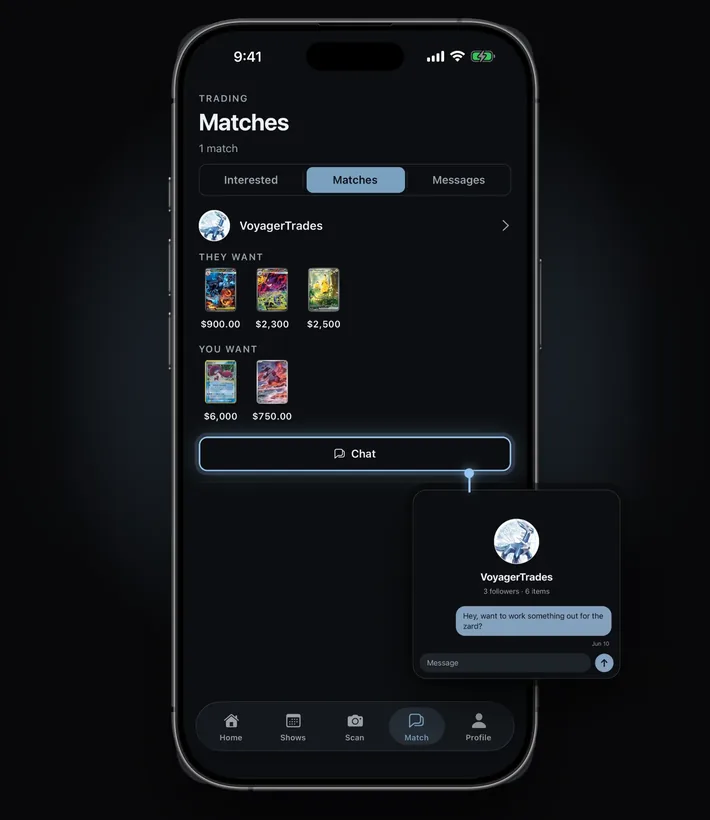
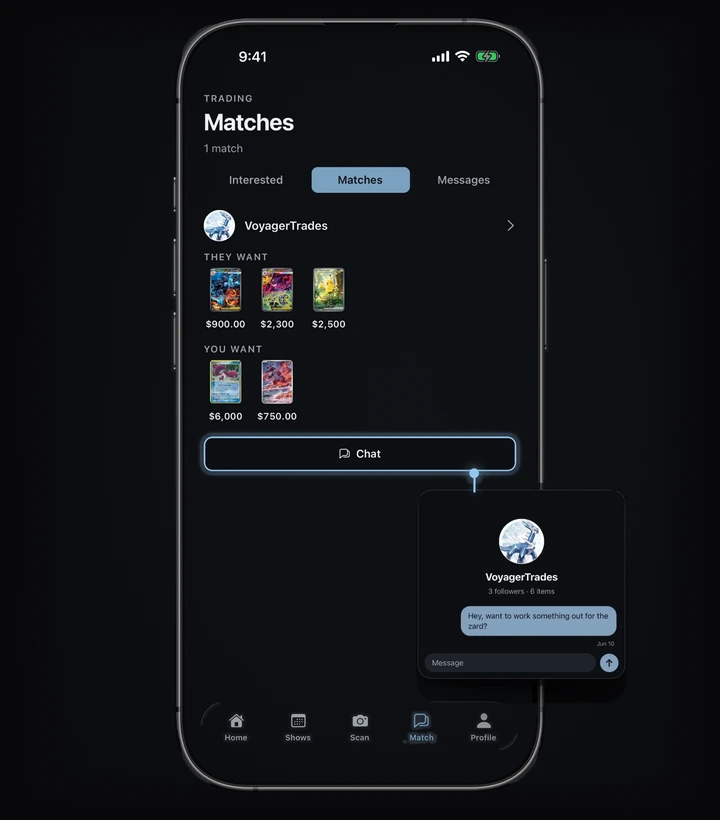
Collectors + Match art: synthetic glow behind the phone
The slide glow was a blurred rectangle, and WebP q82 banded it in the
dark teal; on a good monitor that read as a square behind the phone.
The phone (and the chat pop-out) is now cut out and set on a smooth
dithered radial glow that reaches exact page black at every edge.

Claude-Session: https://claude.ai/code/session_01PyV7vMoZwW6q1BqLa3JWjy

diff --git a/index.html b/index.html
@@ -179,8 +179,8 @@
       </ul>
     </div>
     <div class="feat-art reveal" style="--i:1">
-      <img src="/art/value.webp?v=3" srcset="/art/value.webp?v=3 710w, /art/value@2x.webp?v=3 1420w" sizes="(max-width:900px) 92vw, 516px"
-           width="710" height="881" loading="lazy" decoding="async"
+      <img src="/art/value.webp?v=5" srcset="/art/value.webp?v=5 720w, /art/value@2x.webp?v=5 1440w" sizes="(max-width:900px) 92vw, 523px"
+           width="720" height="881" loading="lazy" decoding="async"
            alt="A portfolio dashboard showing $19,855 across 23 items, up $8,742 over thirty days, with a value chart and the top cards listed underneath.">
     </div>
   </div>
@@ -221,8 +221,8 @@
       </ul>
     </div>
     <div class="feat-art reveal" style="--i:1">
-      <img src="/art/match.webp?v=3" srcset="/art/match.webp?v=3 710w, /art/match@2x.webp?v=3 1420w" sizes="(max-width:900px) 92vw, 554px"
-           width="710" height="820" loading="lazy" decoding="async"
+      <img src="/art/match.webp?v=5" srcset="/art/match.webp?v=5 720w, /art/match@2x.webp?v=5 1440w" sizes="(max-width:900px) 92vw, 562px"
+           width="720" height="820" loading="lazy" decoding="async"
            alt="The Matches tab showing a match with another collector, the three cards each side wants, and the chat that opened between them.">
     </div>
   </div>
